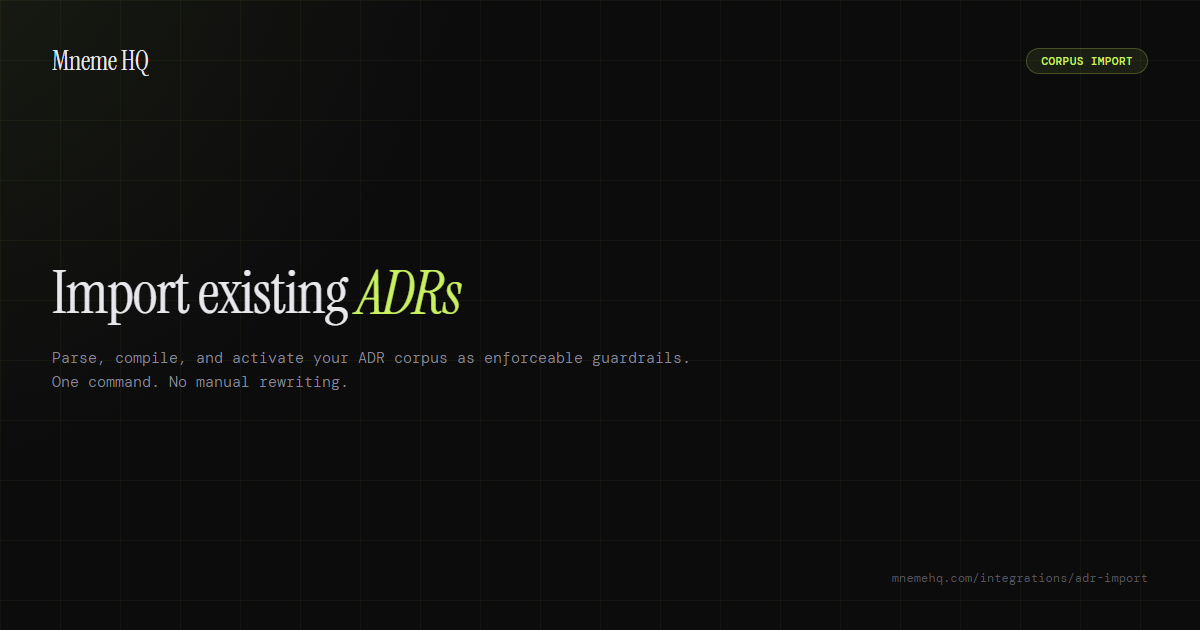
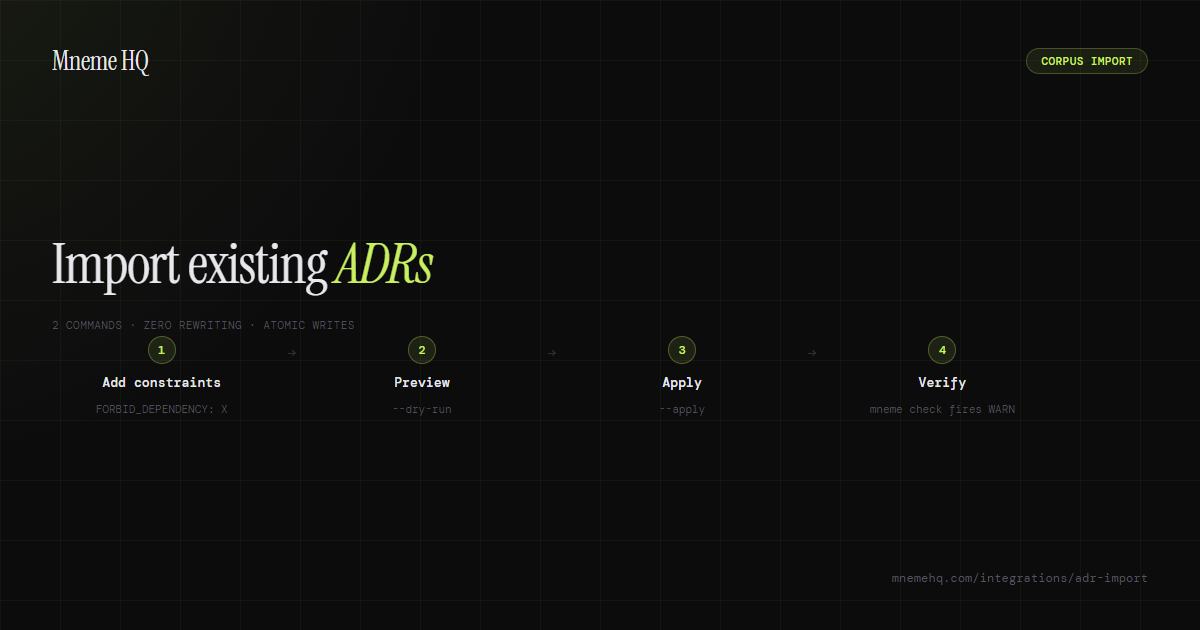
feat(site): pipeline diagram, Related Reading casing, clean CTA on adr-import page
- Add 4-step pipeline diagram (Add constraints, Preview, Apply, Verify)
  with lime numbered circles, bold labels, and monospace hints; badge
  "2 COMMANDS ZERO REWRITING ATOMIC WRITES" shown above steps
- Fix Related Reading heading: text-transform none, title case
- Remove secondary CTA link so only "View on GitHub" button remains
- Re-render og.png from updated OG template showing 4-step pipeline

diff --git a/site/og-integration-adr-import.html b/site/og-integration-adr-import.html
@@ -69,28 +69,78 @@
     display: flex;
     flex-direction: column;
     justify-content: center;
-    max-width: 800px;
-    padding-top: 8px;
+    max-width: 1000px;
+    padding-top: 4px;
+    gap: 24px;
   }
   .heading {
     font-family: 'Instrument Serif', serif;
-    font-size: 60px;
+    font-size: 56px;
     line-height: 1.08;
     color: #e8e8ec;
     letter-spacing: -1px;
-    margin-bottom: 20px;
   }
   .heading em {
     font-style: italic;
     color: #c8f060;
   }
-  .subtitle {
+  .pipeline {
+    display: flex;
+    align-items: flex-start;
+    gap: 0;
+  }
+  .ps {
+    display: flex;
+    flex-direction: column;
+    align-items: center;
+    gap: 10px;
+    flex: 1;
+    text-align: center;
+  }
+  .ps-num {
+    width: 28px;
+    height: 28px;
+    border-radius: 50%;
+    background: rgba(200,240,96,0.1);
+    border: 1px solid rgba(200,240,96,0.3);
+    color: #c8f060;
     font-family: 'DM Mono', monospace;
-    font-size: 15px;
-    line-height: 1.65;
-    color: #88889a;
+    font-size: 12px;
+    font-weight: 500;
+    display: flex;
+    align-items: center;
+    justify-content: center;
+  }
+  .ps-label {
+    font-family: 'DM Mono', monospace;
+    font-size: 13px;
+    font-weight: 500;
+    color: #e8e8ec;
+    letter-spacing: 0.01em;
+  }
+  .ps-hint {
+    font-family: 'DM Mono', monospace;
+    font-size: 11px;
     font-weight: 300;
-    max-width: 680px;
+    color: #55555f;
+    line-height: 1.5;
+  }
+  .ps-arrow {
+    color: #2e2e34;
+    font-size: 16px;
+    padding: 0 16px;
+    align-self: flex-start;
+    padding-top: 6px;
+    flex-shrink: 0;
+  }
+  .badge {
+    font-family: 'DM Mono', monospace;
+    font-size: 11px;
+    font-weight: 300;
+    color: #55555f;
+    letter-spacing: 0.04em;
+    text-transform: uppercase;
+    margin-bottom: 4px;
   }
   .bottom {
     display: flex;
@@ -116,7 +166,34 @@
     </div>
     <div class="middle">
       <div class="heading">Import existing <em>ADRs</em></div>
-      <div class="subtitle">Parse, compile, and activate your ADR corpus as enforceable guardrails.<br>One command. No manual rewriting.</div>
+      <div>
+        <div class="badge">2 commands &middot; zero rewriting &middot; atomic writes</div>
+        <div class="pipeline">
+          <div class="ps">
+            <div class="ps-num">1</div>
+            <div class="ps-label">Add constraints</div>
+            <div class="ps-hint">FORBID_DEPENDENCY: X</div>
+          </div>
+          <div class="ps-arrow">&rarr;</div>
+          <div class="ps">
+            <div class="ps-num">2</div>
+            <div class="ps-label">Preview</div>
+            <div class="ps-hint">--dry-run</div>
+          </div>
+          <div class="ps-arrow">&rarr;</div>
+          <div class="ps">
+            <div class="ps-num">3</div>
+            <div class="ps-label">Apply</div>
+            <div class="ps-hint">--apply</div>
+          </div>
+          <div class="ps-arrow">&rarr;</div>
+          <div class="ps">
+            <div class="ps-num">4</div>
+            <div class="ps-label">Verify</div>
+            <div class="ps-hint">mneme check fires WARN</div>
+          </div>
+        </div>
+      </div>
     </div>
     <div class="bottom">
       <div class="url">mnemehq.com/integrations/adr-import</div>

diff --git a/site/integrations/adr-import/index.html b/site/integrations/adr-import/index.html
@@ -206,7 +206,16 @@
       .article-wrap { padding: 3rem 1.25rem 5rem; }
     }
 
-    h2#related-reading { font-family: 'DM Mono', monospace; font-size: 0.68rem; letter-spacing: 0.1em; text-transform: uppercase; color: var(--muted); font-weight: 400; margin-top: 3.5rem; margin-bottom: 0.75rem; }
+    .pipeline-wrap { background: var(--surface); border: 1px solid var(--border); border-radius: 12px; padding: 1.5rem 1.75rem; margin: 2.5rem 0 3rem; }
+    .pipeline-badge { font-family: 'DM Mono', monospace; font-size: 0.68rem; letter-spacing: 0.08em; text-transform: uppercase; color: var(--accent); margin-bottom: 1.25rem; }
+    .pipeline-steps { display: flex; align-items: flex-start; overflow-x: auto; padding-bottom: 0.25rem; -webkit-overflow-scrolling: touch; }
+    .ps { display: flex; flex-direction: column; align-items: center; gap: 0.5rem; flex: 1; min-width: 118px; text-align: center; padding: 0 0.25rem; }
+    .ps-num { width: 26px; height: 26px; border-radius: 50%; background: rgba(200,240,96,0.08); border: 1px solid rgba(200,240,96,0.25); color: var(--accent); font-family: 'DM Mono', monospace; font-size: 0.72rem; display: flex; align-items: center; justify-content: center; flex-shrink: 0; }
+    .ps-label { font-size: 0.82rem; font-weight: 600; color: var(--text); line-height: 1.3; }
+    .ps-hint { font-family: 'DM Mono', monospace; font-size: 0.68rem; color: var(--muted); line-height: 1.45; margin-top: 0.1rem; }
+    .ps-arrow { color: var(--border2); font-size: 0.9rem; padding: 0 0.35rem; align-self: flex-start; padding-top: 0.45rem; flex-shrink: 0; }
+
+    h2#related-reading { font-family: 'DM Mono', monospace; font-size: 0.68rem; letter-spacing: 0.1em; text-transform: none; color: var(--muted); font-weight: 400; margin-top: 3.5rem; margin-bottom: 0.75rem; }
     h2#related-reading + ul { list-style: none; margin: 0; padding: 0; display: flex; flex-direction: column; gap: 1px; background: var(--border); border-radius: 10px; overflow: hidden; }
     h2#related-reading + ul li { margin: 0; }
     h2#related-reading + ul li a { display: flex; justify-content: space-between; align-items: center; padding: 0.9rem 1.1rem; background: var(--surface); color: var(--text); text-decoration: none; font-size: 0.85rem; font-weight: 500; transition: background 0.15s, color 0.15s; }
@@ -296,6 +305,35 @@
       <time datetime="2026-05-12">Published May 2026</time>
     </p>
   </header>
+
+  <div class="pipeline-wrap" role="img" aria-label="Four-step import pipeline: add constraints, preview, apply, verify">
+    <div class="pipeline-badge">2 commands &middot; zero rewriting &middot; atomic writes</div>
+    <div class="pipeline-steps">
+      <div class="ps">
+        <div class="ps-num">1</div>
+        <div class="ps-label">Add constraints</div>
+        <div class="ps-hint">FORBID_DEPENDENCY:<br>per ADR file</div>
+      </div>
+      <div class="ps-arrow">&rarr;</div>
+      <div class="ps">
+        <div class="ps-num">2</div>
+        <div class="ps-label">Preview</div>
+        <div class="ps-hint">--dry-run<br>nothing writes</div>
+      </div>
+      <div class="ps-arrow">&rarr;</div>
+      <div class="ps">
+        <div class="ps-num">3</div>
+        <div class="ps-label">Apply</div>
+        <div class="ps-hint">--apply<br>atomic write</div>
+      </div>
+      <div class="ps-arrow">&rarr;</div>
+      <div class="ps">
+        <div class="ps-num">4</div>
+        <div class="ps-label">Verify</div>
+        <div class="ps-hint">mneme check<br>WARN fires</div>
+      </div>
+    </div>
+  </div>
 
   <div class="article-body">
 
@@ -428,7 +466,7 @@ Result: WARN</code></pre>
 
   </div>
 
-  <h2 id="related-reading">Related reading</h2>
+  <h2 id="related-reading">Related Reading</h2>
   <ul>
     <li><a href="/integrations/claude-code/">governing Claude Code workflows with the PreToolUse hook</a></li>
     <li><a href="/integrations/github-actions/">architectural governance in GitHub Actions</a></li>
@@ -442,7 +480,6 @@ Result: WARN</code></pre>
       <h3>Turn your existing ADRs into enforceable guardrails</h3>
       <p>Open source, self-hosted. The runnable demo requires no API key.</p>
       <a href="https://github.com/TheoV823/mneme" class="btn-primary">View on GitHub &rarr;</a>
-      <a href="/integrations/claude-code/" class="cta-secondary">Read: governing Claude Code workflows &rarr;</a>
     </div>
   </footer>
 </article>
@@ -548,6 +585,17 @@ Result: WARN</code></pre>
   });
   window.addEventListener('resize', function(){
     if (window.innerWidth > 900 && links.classList.contains('open')) setOpen(false);
+  });
+})();
+</script>
+<script><!-- nav-active -->
+(function(){
+  var path = window.location.pathname;
+  document.querySelectorAll('.nav-links a').forEach(function(a){
+    var href = a.getAttribute('href');
+    if (href && href.startsWith('/') && href !== '/' && path.startsWith(href)) {
+      a.classList.add('active');
+    }
   });
 })();
 </script>